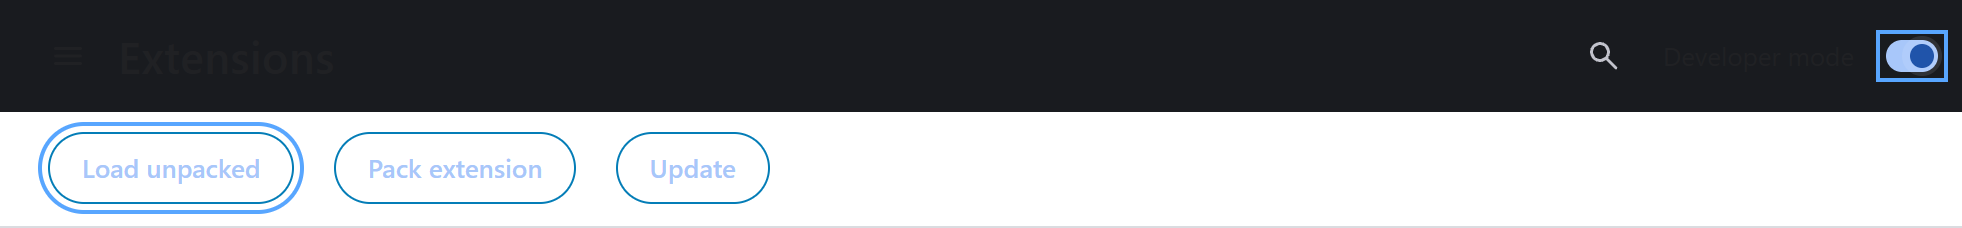
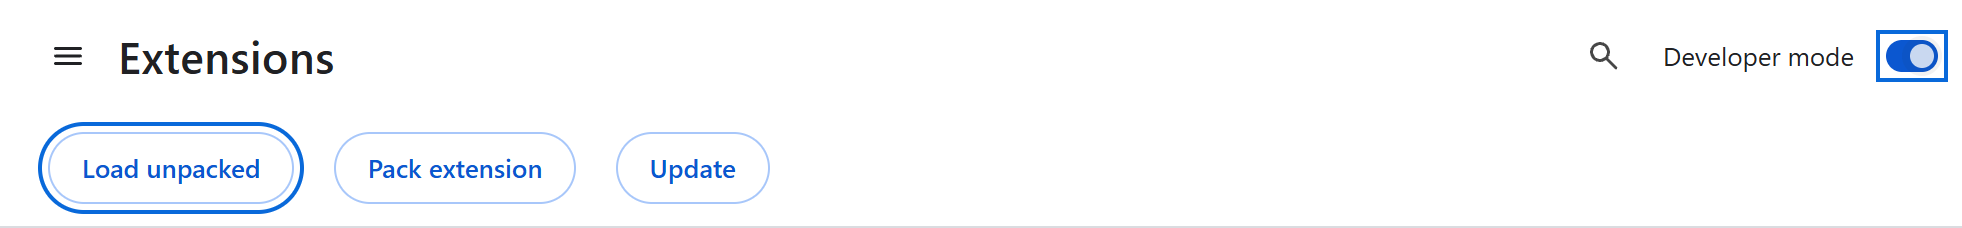
Retake the Chrome install screenshots in one theme each
Chrome paints chrome://extensions from its own appearance setting, so
emulating a light color scheme on a dark system mixed the two: dark
text on a dark toolbar and pale buttons on white. The renderer now
captures each theme in a browser profile set to it, checks the page
follows that theme, and the READMEs pick the light or dark image with
<picture>, with alt text. The Developer mode image moves next to the
install step it illustrates.

Fixes #14

diff --git a/scripts/render-artwork.js b/scripts/render-artwork.js
@@ -1,6 +1,7 @@
 #!/usr/bin/env node
 import assert from 'node:assert/strict'
 import fs from 'node:fs/promises'
+import os from 'node:os'
 import path from 'node:path'
 import process from 'node:process'
 import { fileURLToPath } from 'node:url'
@@ -628,30 +629,102 @@ try {
     await page.setViewport({ width: 1280, height: 800, deviceScaleFactor: 1 })
     await page.screenshot({ path: path.join(root, 'img/chrome-store.png') })
 
-    // Capture current Chrome installation instructions with the built extension.
-    await page.setViewport({ width: 981, height: 600, deviceScaleFactor: 2 })
-    await page.goto('chrome://extensions/')
-    await page.click('pierce/#devMode')
-    await page.waitForSelector('pierce/#loadUnpacked', { visible: true })
-    // Chrome starts its shadow-DOM drawer/card transitions after the toggle.
-    await new Promise((resolve) => setTimeout(resolve, 500))
-    await page.evaluate(() =>
-      Promise.all(
-        document.getAnimations().map((animation) => animation.finished)
+    // Installation screenshots of the real chrome://extensions page, once per
+    // theme. Chrome paints that page from its own appearance setting, not the
+    // emulated color scheme, so each theme gets a browser profile set to it.
+    // Otherwise the page mixes the host OS theme with the emulated one.
+    const highlight = { light: '#0969da', dark: '#58a6ff' }
+    for (const [mode, scheme] of [
+      ['light', 1],
+      ['dark', 2]
+    ]) {
+      const profile = await fs.mkdtemp(path.join(os.tmpdir(), 'icp-artwork-'))
+      await fs.mkdir(path.join(profile, 'Default'))
+      await fs.writeFile(
+        path.join(profile, 'Default', 'Preferences'),
+        // Chrome's Appearance > Mode: 1 light, 2 dark (key renamed in M121).
+        JSON.stringify({
+          browser: { theme: { color_scheme: scheme, color_scheme2: scheme } }
+        })
       )
-    )
-    for (const id of ['devMode', 'loadUnpacked', 'dev-reload-button']) {
-      await page.$eval(`pierce/#${id}`, (node) => {
-        node.style.outline = '2px solid #58a6ff'
-        node.style.outlineOffset = '3px'
+      const themed = await puppeteer.launch({
+        headless: true,
+        pipe: true,
+        enableExtensions: true,
+        userDataDir: profile
       })
+      try {
+        await themed.installExtension(path.join(root, 'dist'))
+        const extensions = await themed.newPage()
+        await extensions.emulateMediaFeatures([
+          { name: 'prefers-color-scheme', value: mode }
+        ])
+        await extensions.setViewport({
+          width: 981,
+          height: 600,
+          deviceScaleFactor: 2
+        })
+        await extensions.goto('chrome://extensions/')
+        await extensions.click('pierce/#devMode')
+        await extensions.waitForSelector('pierce/#loadUnpacked', {
+          visible: true
+        })
+        // Chrome starts its shadow-DOM drawer/card transitions after the toggle.
+        await new Promise((resolve) => setTimeout(resolve, 500))
+        await extensions.evaluate(() =>
+          Promise.all(
+            document.getAnimations().map((animation) => animation.finished)
+          )
+        )
+        // The whole page follows one theme: dark text on light, or the reverse.
+        const luminance = await extensions.evaluate(() => {
+          const channels = (color) =>
+            color
+              .match(/[\d.]+/g)
+              .slice(0, 3)
+              .map(Number)
+          const light = ([r, g, b]) => (r * 299 + g * 587 + b * 114) / 1000
+          const manager = document.querySelector('extensions-manager')
+          const toolbar = manager.shadowRoot.querySelector('extensions-toolbar')
+          const title = toolbar.shadowRoot
+            .querySelector('cr-toolbar')
+            .shadowRoot.querySelector('h1')
+          return {
+            page: light(
+              channels(
+                getComputedStyle(document.documentElement).backgroundColor
+              )
+            ),
+            title: light(channels(getComputedStyle(title).color))
+          }
+        })
+        if (mode === 'light') {
+          assert.ok(luminance.page > 200 && luminance.title < 80, 'Light page')
+        } else {
+          assert.ok(luminance.page < 60 && luminance.title > 180, 'Dark page')
+        }
+        for (const id of ['devMode', 'loadUnpacked', 'dev-reload-button']) {
+          await extensions.$eval(
+            `pierce/#${id}`,
+            (node, color) => {
+              node.style.outline = `2px solid ${color}`
+              node.style.outlineOffset = '3px'
+            },
+            highlight[mode]
+          )
+        }
+        const suffix = mode === 'dark' ? '-dark' : ''
+        await (await extensions.$('pierce/extensions-toolbar')).screenshot({
+          path: path.join(root, `img/dev-mode${suffix}.png`)
+        })
+        await (await extensions.$('pierce/extensions-item')).screenshot({
+          path: path.join(root, `img/reload-link${suffix}.png`)
+        })
+      } finally {
+        await themed.close()
+        await fs.rm(profile, { recursive: true, force: true }).catch(() => {})
+      }
     }
-    await (await page.$('pierce/extensions-toolbar')).screenshot({
-      path: path.join(root, 'img/dev-mode.png')
-    })
-    await (await page.$('pierce/extensions-item')).screenshot({
-      path: path.join(root, 'img/reload-link.png')
-    })
     assert.deepEqual(errors, [])
     console.log(
       'Rendered light/dark README, custom color, settings, and store artwork; all theme checks passed.'

diff --git a/README.md b/README.md
@@ -93,6 +93,12 @@ pnpm run build
 ```
 
 - **Chrome/Brave/Edge:** open `chrome://extensions`, `brave://extensions`, or `edge://extensions`, enable Developer mode, choose **Load unpacked**, and select `dist/`.
+
+  <picture>
+    <source media="(prefers-color-scheme: dark)" srcset="img/dev-mode-dark.png" />
+    <img src="img/dev-mode.png" width="981" alt="Chrome's Extensions page with the Developer mode toggle switched on and the Load unpacked button, both outlined" />
+  </picture>
+
 - **Firefox** (version 121 or later): run `pnpm run build:firefox`, then open `about:debugging#/runtime/this-firefox`, choose **Load Temporary Add-on**, and select `dist/manifest.json`. Temporary installations disappear when Firefox restarts. Packaging uses the local `web-ext` tool; no system `zip` command is required.
 - **Safari:** `pnpm run build:safari --resources-only` generates the browser resources on any supported development platform. Building the native app requires macOS/Xcode; see [publishing configuration](PUBLISHING.md#safari).
 
@@ -145,11 +151,12 @@ authenticates or uploads. See [PUBLISHING.md](PUBLISHING.md) before configuring 
 
 Report bugs, ask support questions, and discuss contributions in [this fork's issues](https://github.com/vycdev/isometric-contributions-plus/issues). Use `pnpm run start` for watch mode, `pnpm run test:unit` for unit tests, and `pnpm test` for formatting, lint, and unit checks. See [PUBLISHING.md](PUBLISHING.md) for pending store-account and private-contact setup. Never use upstream publisher accounts for this fork.
 
-<img src="img/dev-mode.png" width="981" />
-
 After changes, rebuild, then click **Reload** under the extension entry. Refresh open GitHub pages to reload the content script.
 
-<img src="img/reload-link.png" width="410" />
+<picture>
+  <source media="(prefers-color-scheme: dark)" srcset="img/reload-link-dark.png" />
+  <img src="img/reload-link.png" width="410" alt="The Isometric Contributions Plus card on Chrome's Extensions page, with its Reload button outlined" />
+</picture>
 
 ### Theme and artwork
 

diff --git a/README-zh.md b/README-zh.md
@@ -83,6 +83,12 @@ pnpm run build
 ```
 
 - **Chrome / Brave / Edge：** 打开 `chrome://extensions`、`brave://extensions` 或 `edge://extensions`，开启开发者模式，选择“加载已解压的扩展程序”，并选中 `dist/` 目录。
+
+  <picture>
+    <source media="(prefers-color-scheme: dark)" srcset="img/dev-mode-dark.png" />
+    <img src="img/dev-mode.png" width="981" alt="Chrome 扩展程序页面：已开启开发者模式，并标出“加载已解压的扩展程序”按钮" />
+  </picture>
+
 - **Firefox：** 运行 `pnpm run build:firefox`，打开 `about:debugging#/runtime/this-firefox`，选择“临时载入附加组件”，并选中 `dist/manifest.json`。重启后临时安装会消失。打包使用本地 `web-ext` 工具，无需系统 `zip` 命令。
 - **Safari：** 运行 `pnpm run build:safari --resources-only` 生成资源；原生应用构建需要 macOS 与 Xcode。签名配置见 [PUBLISHING.md](PUBLISHING.md#safari)（英文）。
 
@@ -94,8 +100,12 @@ pnpm run build
 
 商店账号和私人举报联系方式仍待维护者配置，详见 [PUBLISHING.md](PUBLISHING.md)。公开 issue 中请勿包含私人信息或敏感证据，也不要把本分支的支持或行为准则举报发送给原项目维护者。
 
-<img src="img/dev-mode.png" width="981" alt="启用开发者模式并加载扩展" />
-<img src="img/reload-link.png" width="410" alt="重新加载扩展" />
+修改后请重新构建，然后在扩展卡片上点击重新加载按钮，并刷新已打开的 GitHub 页面。
+
+<picture>
+  <source media="(prefers-color-scheme: dark)" srcset="img/reload-link-dark.png" />
+  <img src="img/reload-link.png" width="410" alt="Chrome 扩展程序页面中的 Isometric Contributions Plus 卡片，已标出重新加载按钮" />
+</picture>
 
 共享配色位于 [`src/theme.css`](src/theme.css)。图标、截图的生成方法以及与颜色自定义、2D 缩放的集成约定，见 [`scripts/artwork/README.md`](scripts/artwork/README.md)。
 

diff --git a/scripts/artwork/README.md b/scripts/artwork/README.md
@@ -35,7 +35,9 @@ panel and weekday-label column match the supplied browser reference, keeping the
 10px calendar squares and painted 3D graph at comparable widths. The renderer
 checks both cell geometry and graph alignment. The extension's full-width canvas
 is unchanged. Installation screenshots use the actual extension loaded in
-headless Chrome.
+headless Chrome, once per theme. Chrome draws its Extensions page from its own
+Appearance setting rather than the emulated color scheme, so each theme gets a
+browser profile set to it.
 
 ```sh
 pnpm install --frozen-lockfile
